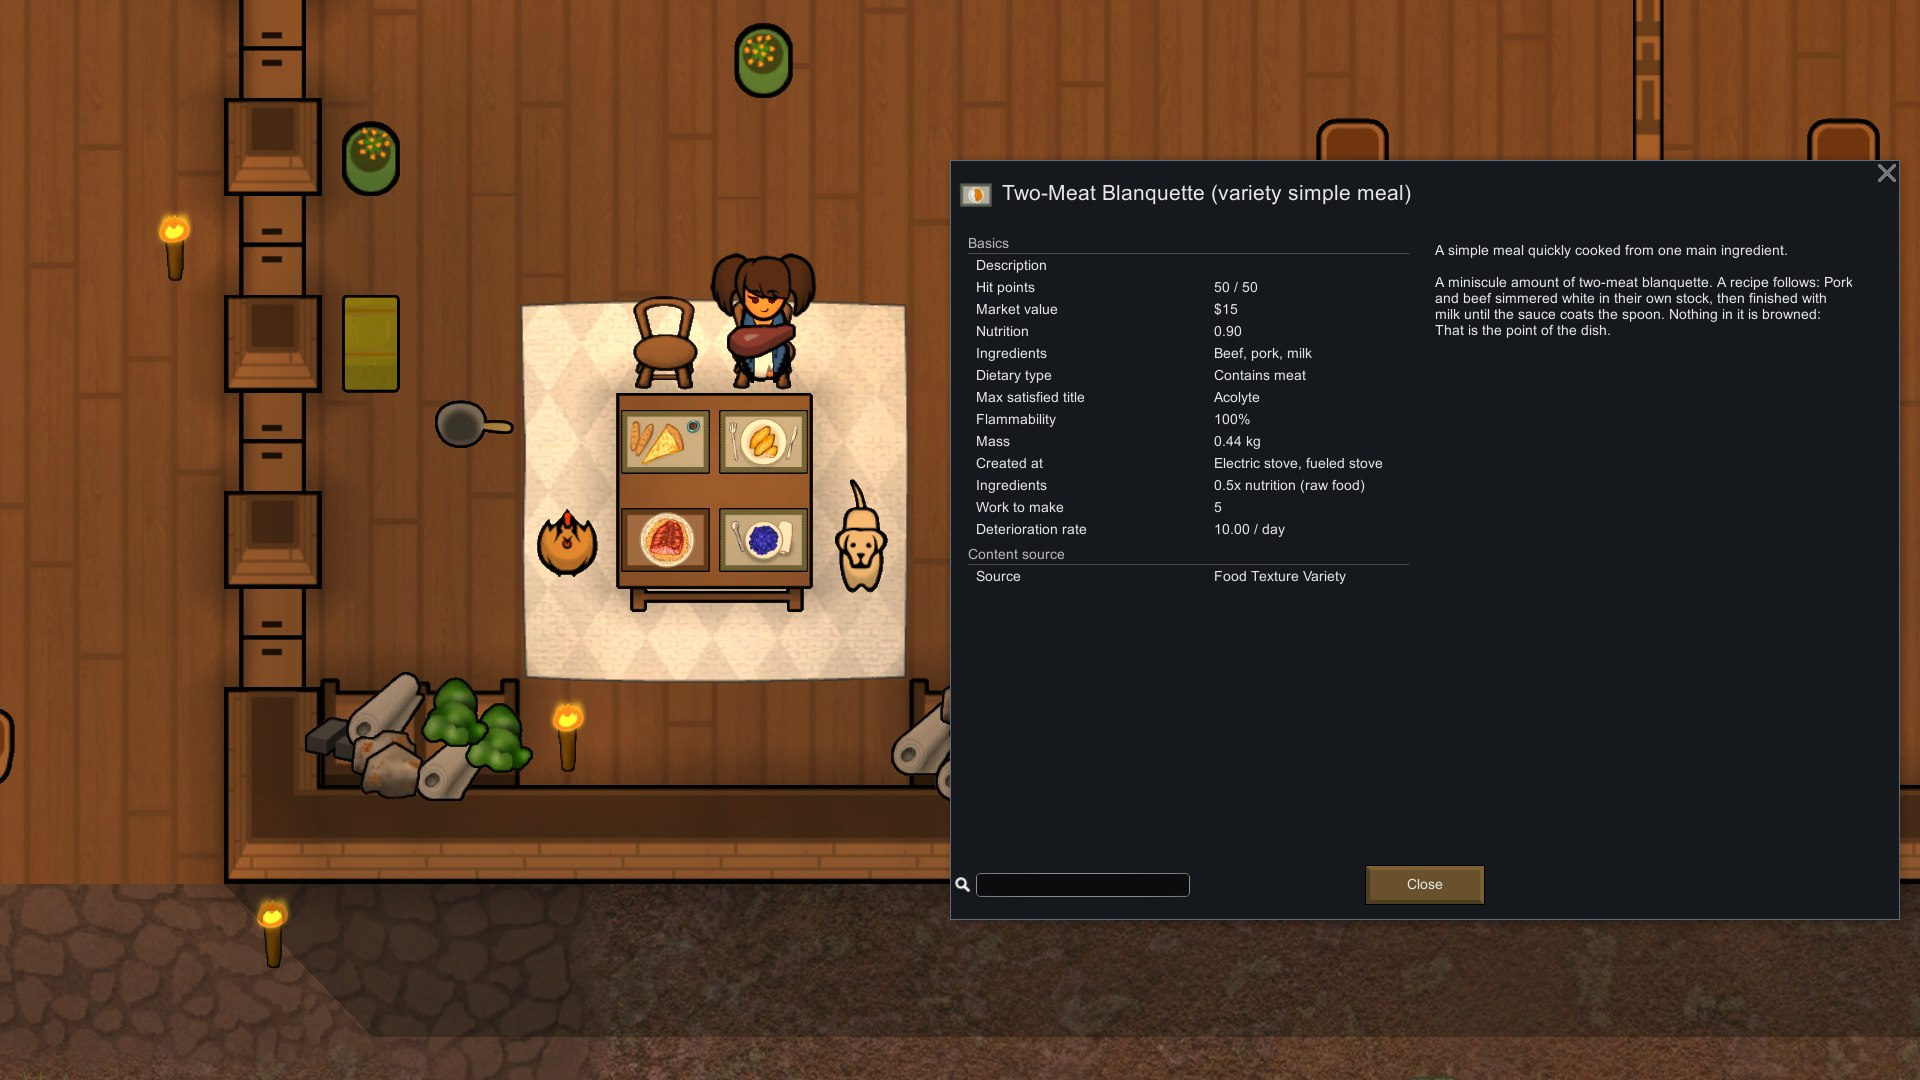
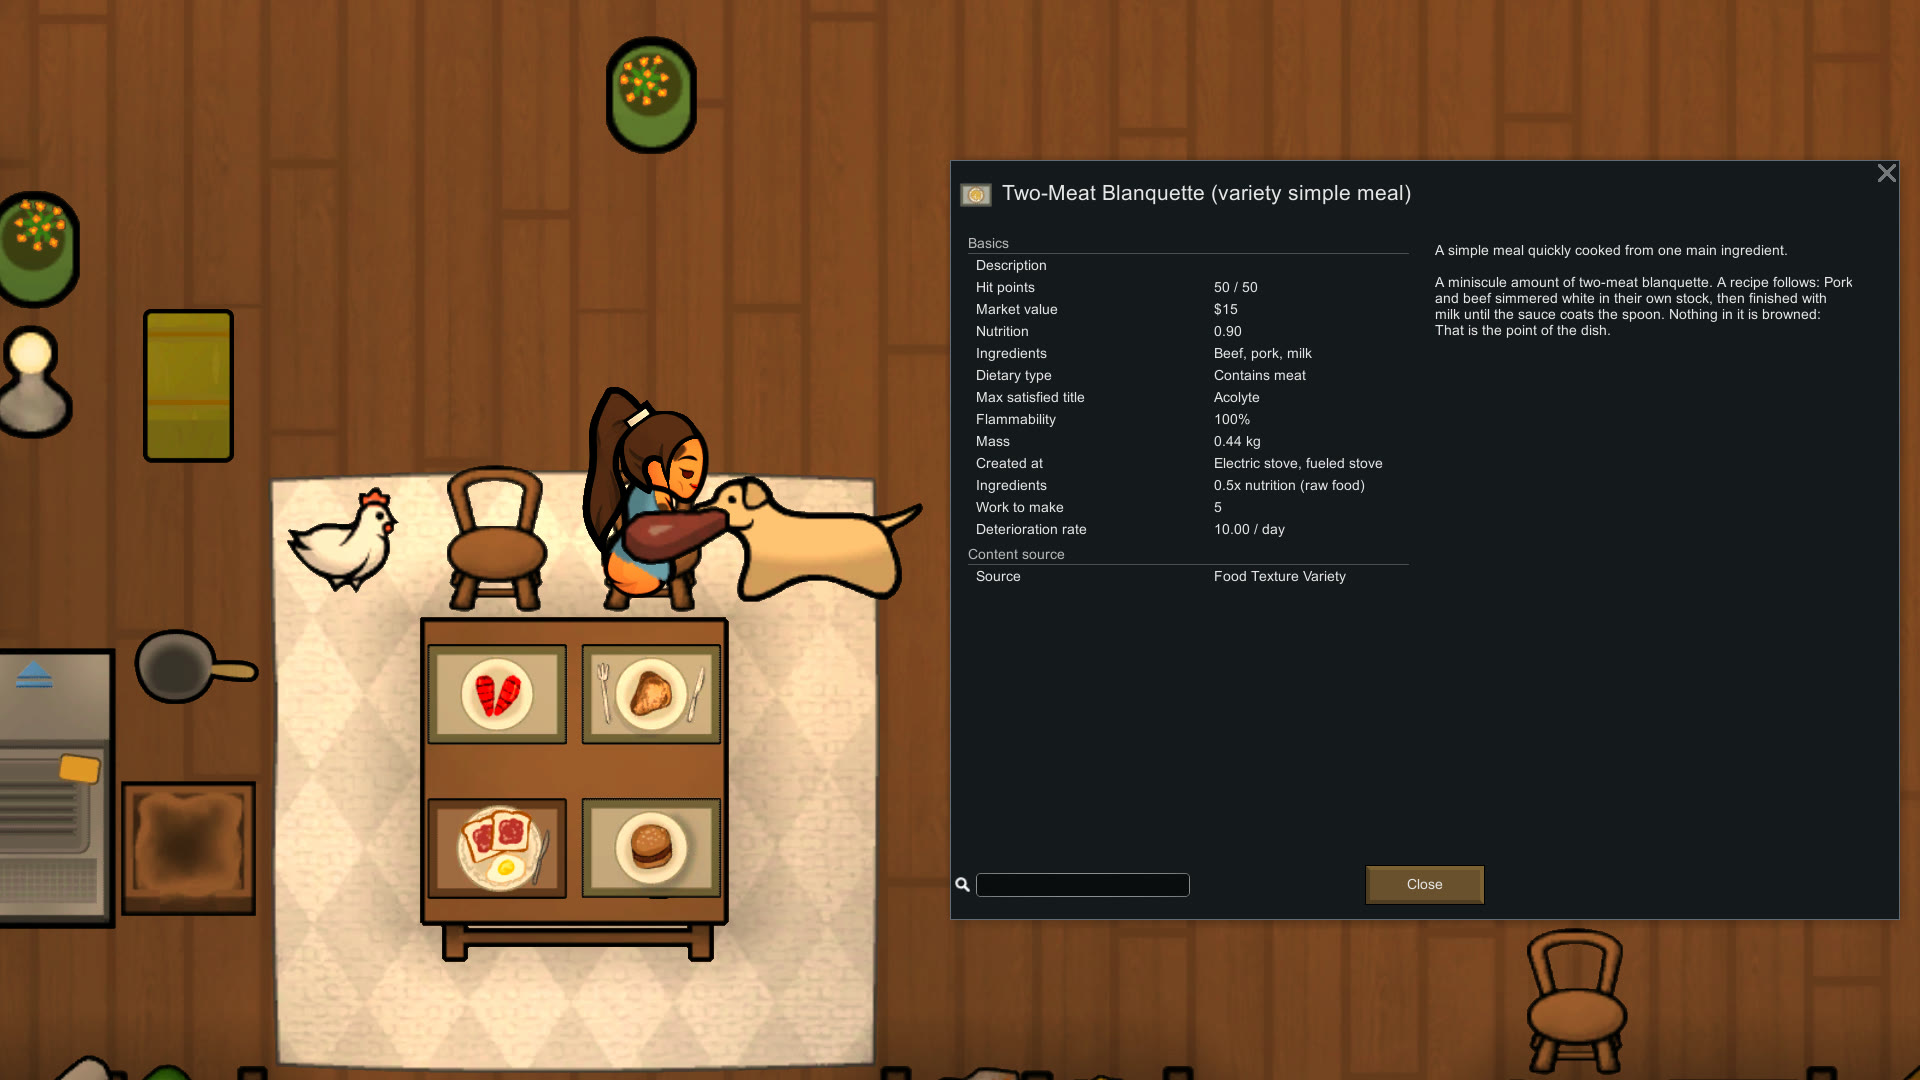
Gallery pass 5 read: scene 3 candidate kept, scenes 1, 2, 4 to refile; STATUS follows

diff --git a/STATUS.md b/STATUS.md
@@ -29,7 +29,7 @@ workshop:     3806100152
 publication_changelog_review_sha: 7f265e28f384edd36d247537fcdd01cc9102865e  # 2026-10-13, owner review of PUBLICATION.md + CHANGELOG.md for the 1.3 line (RimWorld 1.7 support)
 code_review_sha: e4b8606f7aa439285f379d4580b8788011000f75  # 2026-10-13, review of f206a19 to e4b8606f7aa439285f379d4580b8788011000f75: 0 findings; Mod/ diff is About.xml only (modVersion 1.3.0, supportedVersions 1.6 and 1.7, matches the green 1.7 diagnostic) and the Preview images. Earlier: f206a19 (2026-10-13), 83f7019 (2026-10-11), bb13483 (2026-10-06).
 remaining:
-  - "open: REPLAY 4 (ticket d5d0) READ 2026-11-09: 2/2 passed, both captures REFUSED and deleted with the Inbox folders of replays 3 and 4. Scene 2: Nelim stands at the chair facing East, not eating, guest Miel absent, bare rug, only chairs and plates (decor weak, adequacy weak, understanding weak). Scene 4: hat in view but the potato sack hides her body, no loose Long hair, tiny, only torches and fence as decor (adequacy, understanding, decoration under 4). DONE 2026-11-09: sync-nsb-npt, all four scenes recomposed, plan 5, drift check OK. PASS 5 FILED 2026-11-09: ticket 20261109-003112-827-543b on c01007e (all four scenes, -NoBatch, -SkipDefCheck because the pre-check flags FTV Core 3354455179 as not on disk, as before; every cited def exists; tree frozen until RUN_DONE; evidence Tests/Pickle/Inbox/2026-11-09-gallery-pass-5; check summary total is 4). At RUN_DONE: read summary.json, open the four captures (1920x1080, Guest visible in 1 and 2, Nelim facing South in 2, no sack over Nelim in 4), score-gallery, delete REDO captures, recompose, refile. Was: run sync-nsb-npt, recompose scenes 2 and 4 (guest in frame, richer decor, a fallback pose that reads at once, Nelim bigger), score-gallery, Check-ShotlistVsScenario, refile; scenes 1 and 3 follow; one single review by the owner at the end (rule 2026-11-08). Older detail: gallery pass 4 (refit scenes 1 to 3 of the shotlist at 4/5, see Shotlist). Ec48 passed 4/4 (2026-10-18, tree 2747b08): read by the session: 1 refused (four identical katsudon plates, says nothing), 2 kept as candidate (2-candidate-two-dishes-empadao-gnocchi.jpg, card Empadao and Gnocchi, Nelim at the chair), 3 refused as redundant (same plates), 4 refused (Nelim tiny, potato sack hides her, bare garden). Pass 4 plays 1 to 4 of 10-gallery-scenes.feature with four different recipes cooked once each on the table, per-scene outfit, held items, animals and decor; scene 4 also plays in pass 4 (owner order 2026-10-18, without waiting for NPT ticket e457): straw hat over Long loose hair, Show Hair Under Stuff (RaccoonCuddler.ShowHair 3255379190) added to the map; if no hair shows under the hat, replay without the hat. Meals are cooked with the Food Texture Variety recipes FTV_CookMealSimple and FTV_CookMealFine (2026-10-18, owner remark): ingredient pairs chosen for their own FTV texture (beef+potatoes, egg+rice, corn+pork, berries+milk); never played, and Flavor Text may not name FTV_MealSimple, then the card steps fail and the vanilla recipes come back. Decor reworked 2026-10-18 to kitchen props of VFE Props and Decor (all 1x1 per NPT, FoodBox 2x2 swapped for WineRack; GALLERY-PROPS.md "Kitchen and meals"; a placement that fails falls back to the old chest, barrel and hay bale); the FTV Core mod (3354455179) is not in the Windows Workshop folder: read on the capture whether the staging fetched it; Check-Steps.ps1 could not run (Pickle assemblies path): the step texts reuse the played ones plus carries 1 of the item, never played. REPLAY 2 FILED 2026-10-20: ticket 20261020-004150-259-7618 (scenes 2 and 4, scene 4 frame moved to (195, 85) zoom 6; tree frozen until RUN_DONE; evidence Tests/Pickle/Inbox/2026-10-20-gallery-pass-4-replay-2; check the resolution is 1920x1080). REPLAY 3869 READ 2026-10-20: 2/2 passed, both captures refused (scene 2: 1280x720 while the others are 1920x1080, Nelim tiny, not eating; scene 4: Nelim hidden under the info card, no hat visible); scene 2 keeps 2-candidate-two-dishes-empadao-gnocchi.jpg meanwhile (borderline: four identical plates); RECOMPOSED 2026-10-30; TODO: update the scene 4 row of the Shotlist table (zoom 6, carries 1 potato, faces South; feature differs from the table). Rate-gallery plan 2026-10-30: 4.5, 4.5, 5, 4 (scene 3 e weak, scene 4 e and j weak). REPLAY 4 FILED 2026-10-30: ticket 20261030-162606-872-d5d0 on dc99eb5 (scenes 2 and 4, -NoBatch, tree frozen until RUN_DONE, evidence Tests/Pickle/Inbox/2026-10-30-gallery-pass-4-replay-4; check summary total is 2). Earlier note: recompose scenes 2 and 4 (resolution, card off Nelim, hat in view) before any new ticket. RECOMPOSED 2026-10-25: scene 2 frame (179, 109) zoom 4, scene 4 frame (194, 85) zoom 5, hat mod switched to Hat Hair Control 3760821540 (owner's choice 2026-10-20, seed in config/gallery-scenes/); the 1280x720 size is not a ticket option, read it on the capture. Replay 2 folder (ticket 7618, exit 139 boot crash, no report) deleted. REPLAY 3 (bb59) READ 2026-10-30: total 3 (the filter also ran the card scenario), 2 passed, 1 failed: scene 2 "no MealFine lies at (176, 109); there is Table2x2c, RusticRug_Broad, FTV_MealFine" (the forced Ingest step needs the def name FTV_MealFine, fix the feature line, then replay scene 2 alone); scene 4 passed, capture 1920x1080 but REFUSED (potato sack hides Nelim, no loose Long hair visible under the hat, she is small; hen and Gnocchi card ok): RECOMPOSED 2026-10-30 in the feature: zoom 6 at (194, 85), carries 1 RawPotatoes, faces South (hair and face to the camera); scene 1 haul and scene 2 Ingest now name FTV_MealFine; not yet played, next ticket = scenes 2 and 4 (then 1 and 3). Evidence stays in Tests/Pickle/Inbox/2026-10-25-gallery-pass-4-replay-3 until scene 2 and 4 are read again. REPLAY 3 FILED 2026-10-25: ticket 20261025-163115-785-bb59 on a83f3bd (scenes 2 and 4, -NoBatch, tree frozen until RUN_DONE, evidence Tests/Pickle/Inbox/2026-10-25-gallery-pass-4-replay-3; -List showed tests=? : check the report holds 2 scenarios). ON RUN_DONE of bb59: read summary.json (total must be 2, exitReason), then junit.xml; open both captures (1920x1080? Nelim big and left of the card, scene 2 mid-bite with Ingest face and Miel at (175,110), scene 4 hat over loose Long hair, potatoes in her arms, hen in front); scene 2 tick count 90 is a guess, adjust; give a verdict per capture (accept/refuse), keep serious ones as N-candidate-name.jpg in Art/Gallery, delete the Inbox folder, then refile scenes 1 and 3 (forced haul of MealFine for Nelim, Miel mid-walk, scene 3 stands-next-to with Meat_Cow) and update the Replay verdict column of the shotlist. Keep the Player.log if the screen is 1280x720 and send NPT the ticket id. NPT proof ticket 35f9 (forced Ingest) read 2026-10-25: NOT PROVEN (job starts, cat abandons it on Milk 30 ticks later, probably because the species does not eat it); Nelim eating a MealFine stays unplayed, so scene 2 may need its fallback (stands at the chair holding MealSimple). Preview checked up to date 2026-10-25 (7f56a76, sha matches social_preview_sha256). Ticket cdb2 (tree 139f578) ran 2026-10-18: scenes 1 and 3 passed and were kept as candidates (1-candidate-table-laid.jpg, 3-candidate-blanquette-shogun-hen.jpg, plates differ, kitchen props, dog and hen); scene 2 failed (hairstyle Bun does not exist, now FancyBun), scene 4 failed (no meal named FlavorTextFR_Gnocchi, now FlavorTextFR_GnocchiSolo); replay of scenes 2 and 4 filed as ticket 20261019-153604-220-3869 on tree 7f6ddfd (-List showed tests=35 instead of 2: if the report holds more than 2 scenarios the filter did not apply, refile; at RUN_DONE also triage Inbox with Prune-Evidence.ps1, release Parked 2026-10-18-gallery-pass-4 when scenes 2 and 4 are green, STALE Evidence folders 122-with-optionals and 122-without-odyssey were read and kept, About.xml diff read) (frozen until RUN_DONE, evidence Tests/Pickle/Inbox/2026-10-19-gallery-pass-4-replay); the run is parked in Tests/Pickle/Parked/2026-10-18-gallery-pass-4 (RELEASE.md) until scenes 2 and 4 pass again, scene 2 eating pose and scene 4 hat still unread; earlier tickets ( earlier tickets 8b51, 6dd5, 8fbc, 3ceb cancelled unstarted). On RUN_DONE: read summary.json (total 4), open every capture, check the plates differ (FTV Core 3354455179 not in the Windows Workshop folder), scene 2 eating pose (normal+Ingest, standing at the chair facing South; NPT wrote North by mistake, not yet told), scene 4 hair under the hat (remove the hat if none shows), kitchen props placed; keep serious ones as N-candidate-name.jpg; add seen in a capture to GALLERY-PROPS.md (protocols root, commit by path) for FTV and VFE Props and Decor. The seat step asked of NPT is moot (NPT answered: existing steps). Release steps 9a, 9b due at prepareRelease."
+  - "open: PASS 5 (ticket 543b) READ 2026-11-10: total 4, 2 passed, 2 failed. Scene 1 failed: Log.Error Exception drawing Guest (NullReferenceException in FacialAnimationControllerComp.UpdateAnimation; Guest never draws, so scene 2 passed with an empty chair, REDO, old 2-candidate deleted). Scene 4 failed: cell (190, 83) already holds FenceGate (decor VFEPD_WoodenLogs line 180 of the feature, pick a free cell). Scene 3 passed, capture opened, 268 px check ok, kept as Art/Gallery/3-candidate-blanquette-shogun-hen.jpg (replaces the older one). NPT asked 2026-11-10 (PiT session) which steps make an anonymous Guest safe for FacialAnimation; waiting for the answer. Then: fix scene 4 cell, fix Guest steps, refile scenes 1, 2, 4 (-NoBatch, -SkipDefCheck), old 1-candidate-table-laid.jpg stays until scene 1 is replayed. Inbox folder Tests/Pickle/Inbox/2026-11-09-gallery-pass-5 kept until refile (Player.log is the NPT evidence). Earlier: REPLAY 4 (ticket d5d0) READ 2026-11-09: 2/2 passed, both captures REFUSED and deleted with the Inbox folders of replays 3 and 4. Scene 2: Nelim stands at the chair facing East, not eating, guest Miel absent, bare rug, only chairs and plates (decor weak, adequacy weak, understanding weak). Scene 4: hat in view but the potato sack hides her body, no loose Long hair, tiny, only torches and fence as decor (adequacy, understanding, decoration under 4). DONE 2026-11-09: sync-nsb-npt, all four scenes recomposed, plan 5, drift check OK. PASS 5 FILED 2026-11-09: ticket 20261109-003112-827-543b on c01007e (all four scenes, -NoBatch, -SkipDefCheck because the pre-check flags FTV Core 3354455179 as not on disk, as before; every cited def exists; tree frozen until RUN_DONE; evidence Tests/Pickle/Inbox/2026-11-09-gallery-pass-5; check summary total is 4). At RUN_DONE: read summary.json, open the four captures (1920x1080, Guest visible in 1 and 2, Nelim facing South in 2, no sack over Nelim in 4), score-gallery, delete REDO captures, recompose, refile. Was: run sync-nsb-npt, recompose scenes 2 and 4 (guest in frame, richer decor, a fallback pose that reads at once, Nelim bigger), score-gallery, Check-ShotlistVsScenario, refile; scenes 1 and 3 follow; one single review by the owner at the end (rule 2026-11-08). Older detail: gallery pass 4 (refit scenes 1 to 3 of the shotlist at 4/5, see Shotlist). Ec48 passed 4/4 (2026-10-18, tree 2747b08): read by the session: 1 refused (four identical katsudon plates, says nothing), 2 kept as candidate (2-candidate-two-dishes-empadao-gnocchi.jpg, card Empadao and Gnocchi, Nelim at the chair), 3 refused as redundant (same plates), 4 refused (Nelim tiny, potato sack hides her, bare garden). Pass 4 plays 1 to 4 of 10-gallery-scenes.feature with four different recipes cooked once each on the table, per-scene outfit, held items, animals and decor; scene 4 also plays in pass 4 (owner order 2026-10-18, without waiting for NPT ticket e457): straw hat over Long loose hair, Show Hair Under Stuff (RaccoonCuddler.ShowHair 3255379190) added to the map; if no hair shows under the hat, replay without the hat. Meals are cooked with the Food Texture Variety recipes FTV_CookMealSimple and FTV_CookMealFine (2026-10-18, owner remark): ingredient pairs chosen for their own FTV texture (beef+potatoes, egg+rice, corn+pork, berries+milk); never played, and Flavor Text may not name FTV_MealSimple, then the card steps fail and the vanilla recipes come back. Decor reworked 2026-10-18 to kitchen props of VFE Props and Decor (all 1x1 per NPT, FoodBox 2x2 swapped for WineRack; GALLERY-PROPS.md "Kitchen and meals"; a placement that fails falls back to the old chest, barrel and hay bale); the FTV Core mod (3354455179) is not in the Windows Workshop folder: read on the capture whether the staging fetched it; Check-Steps.ps1 could not run (Pickle assemblies path): the step texts reuse the played ones plus carries 1 of the item, never played. REPLAY 2 FILED 2026-10-20: ticket 20261020-004150-259-7618 (scenes 2 and 4, scene 4 frame moved to (195, 85) zoom 6; tree frozen until RUN_DONE; evidence Tests/Pickle/Inbox/2026-10-20-gallery-pass-4-replay-2; check the resolution is 1920x1080). REPLAY 3869 READ 2026-10-20: 2/2 passed, both captures refused (scene 2: 1280x720 while the others are 1920x1080, Nelim tiny, not eating; scene 4: Nelim hidden under the info card, no hat visible); scene 2 keeps 2-candidate-two-dishes-empadao-gnocchi.jpg meanwhile (borderline: four identical plates); RECOMPOSED 2026-10-30; TODO: update the scene 4 row of the Shotlist table (zoom 6, carries 1 potato, faces South; feature differs from the table). Rate-gallery plan 2026-10-30: 4.5, 4.5, 5, 4 (scene 3 e weak, scene 4 e and j weak). REPLAY 4 FILED 2026-10-30: ticket 20261030-162606-872-d5d0 on dc99eb5 (scenes 2 and 4, -NoBatch, tree frozen until RUN_DONE, evidence Tests/Pickle/Inbox/2026-10-30-gallery-pass-4-replay-4; check summary total is 2). Earlier note: recompose scenes 2 and 4 (resolution, card off Nelim, hat in view) before any new ticket. RECOMPOSED 2026-10-25: scene 2 frame (179, 109) zoom 4, scene 4 frame (194, 85) zoom 5, hat mod switched to Hat Hair Control 3760821540 (owner's choice 2026-10-20, seed in config/gallery-scenes/); the 1280x720 size is not a ticket option, read it on the capture. Replay 2 folder (ticket 7618, exit 139 boot crash, no report) deleted. REPLAY 3 (bb59) READ 2026-10-30: total 3 (the filter also ran the card scenario), 2 passed, 1 failed: scene 2 "no MealFine lies at (176, 109); there is Table2x2c, RusticRug_Broad, FTV_MealFine" (the forced Ingest step needs the def name FTV_MealFine, fix the feature line, then replay scene 2 alone); scene 4 passed, capture 1920x1080 but REFUSED (potato sack hides Nelim, no loose Long hair visible under the hat, she is small; hen and Gnocchi card ok): RECOMPOSED 2026-10-30 in the feature: zoom 6 at (194, 85), carries 1 RawPotatoes, faces South (hair and face to the camera); scene 1 haul and scene 2 Ingest now name FTV_MealFine; not yet played, next ticket = scenes 2 and 4 (then 1 and 3). Evidence stays in Tests/Pickle/Inbox/2026-10-25-gallery-pass-4-replay-3 until scene 2 and 4 are read again. REPLAY 3 FILED 2026-10-25: ticket 20261025-163115-785-bb59 on a83f3bd (scenes 2 and 4, -NoBatch, tree frozen until RUN_DONE, evidence Tests/Pickle/Inbox/2026-10-25-gallery-pass-4-replay-3; -List showed tests=? : check the report holds 2 scenarios). ON RUN_DONE of bb59: read summary.json (total must be 2, exitReason), then junit.xml; open both captures (1920x1080? Nelim big and left of the card, scene 2 mid-bite with Ingest face and Miel at (175,110), scene 4 hat over loose Long hair, potatoes in her arms, hen in front); scene 2 tick count 90 is a guess, adjust; give a verdict per capture (accept/refuse), keep serious ones as N-candidate-name.jpg in Art/Gallery, delete the Inbox folder, then refile scenes 1 and 3 (forced haul of MealFine for Nelim, Miel mid-walk, scene 3 stands-next-to with Meat_Cow) and update the Replay verdict column of the shotlist. Keep the Player.log if the screen is 1280x720 and send NPT the ticket id. NPT proof ticket 35f9 (forced Ingest) read 2026-10-25: NOT PROVEN (job starts, cat abandons it on Milk 30 ticks later, probably because the species does not eat it); Nelim eating a MealFine stays unplayed, so scene 2 may need its fallback (stands at the chair holding MealSimple). Preview checked up to date 2026-10-25 (7f56a76, sha matches social_preview_sha256). Ticket cdb2 (tree 139f578) ran 2026-10-18: scenes 1 and 3 passed and were kept as candidates (1-candidate-table-laid.jpg, 3-candidate-blanquette-shogun-hen.jpg, plates differ, kitchen props, dog and hen); scene 2 failed (hairstyle Bun does not exist, now FancyBun), scene 4 failed (no meal named FlavorTextFR_Gnocchi, now FlavorTextFR_GnocchiSolo); replay of scenes 2 and 4 filed as ticket 20261019-153604-220-3869 on tree 7f6ddfd (-List showed tests=35 instead of 2: if the report holds more than 2 scenarios the filter did not apply, refile; at RUN_DONE also triage Inbox with Prune-Evidence.ps1, release Parked 2026-10-18-gallery-pass-4 when scenes 2 and 4 are green, STALE Evidence folders 122-with-optionals and 122-without-odyssey were read and kept, About.xml diff read) (frozen until RUN_DONE, evidence Tests/Pickle/Inbox/2026-10-19-gallery-pass-4-replay); the run is parked in Tests/Pickle/Parked/2026-10-18-gallery-pass-4 (RELEASE.md) until scenes 2 and 4 pass again, scene 2 eating pose and scene 4 hat still unread; earlier tickets ( earlier tickets 8b51, 6dd5, 8fbc, 3ceb cancelled unstarted). On RUN_DONE: read summary.json (total 4), open every capture, check the plates differ (FTV Core 3354455179 not in the Windows Workshop folder), scene 2 eating pose (normal+Ingest, standing at the chair facing South; NPT wrote North by mistake, not yet told), scene 4 hair under the hat (remove the hat if none shows), kitchen props placed; keep serious ones as N-candidate-name.jpg; add seen in a capture to GALLERY-PROPS.md (protocols root, commit by path) for FTV and VFE Props and Decor. The seat step asked of NPT is moot (NPT answered: existing steps). Release steps 9a, 9b due at prepareRelease."
   - "open: a later publish with update_tags needs STEAM_REFRESH_TOKEN in steam-production of this repository; CI/CD sets it only on the explicit order of the owner. Without it such a publish stops before the upload."
   - "open: the Steam page gallery (Art/Gallery/: 0-preview, 1-two-dishes-nelim-seated, 2-katsudon) was uploaded by hand by the owner on 2026-10-13; reported by her, not checked on the public page. The CI sends the description, preview and tags, never the gallery."
   - "open: the French text of the 233 shorter forms and the new dishes belongs to the companion mod (Flavor Text Extended - Francais); until it lands they show in English in French. Tracked in BACKLOG.md."
